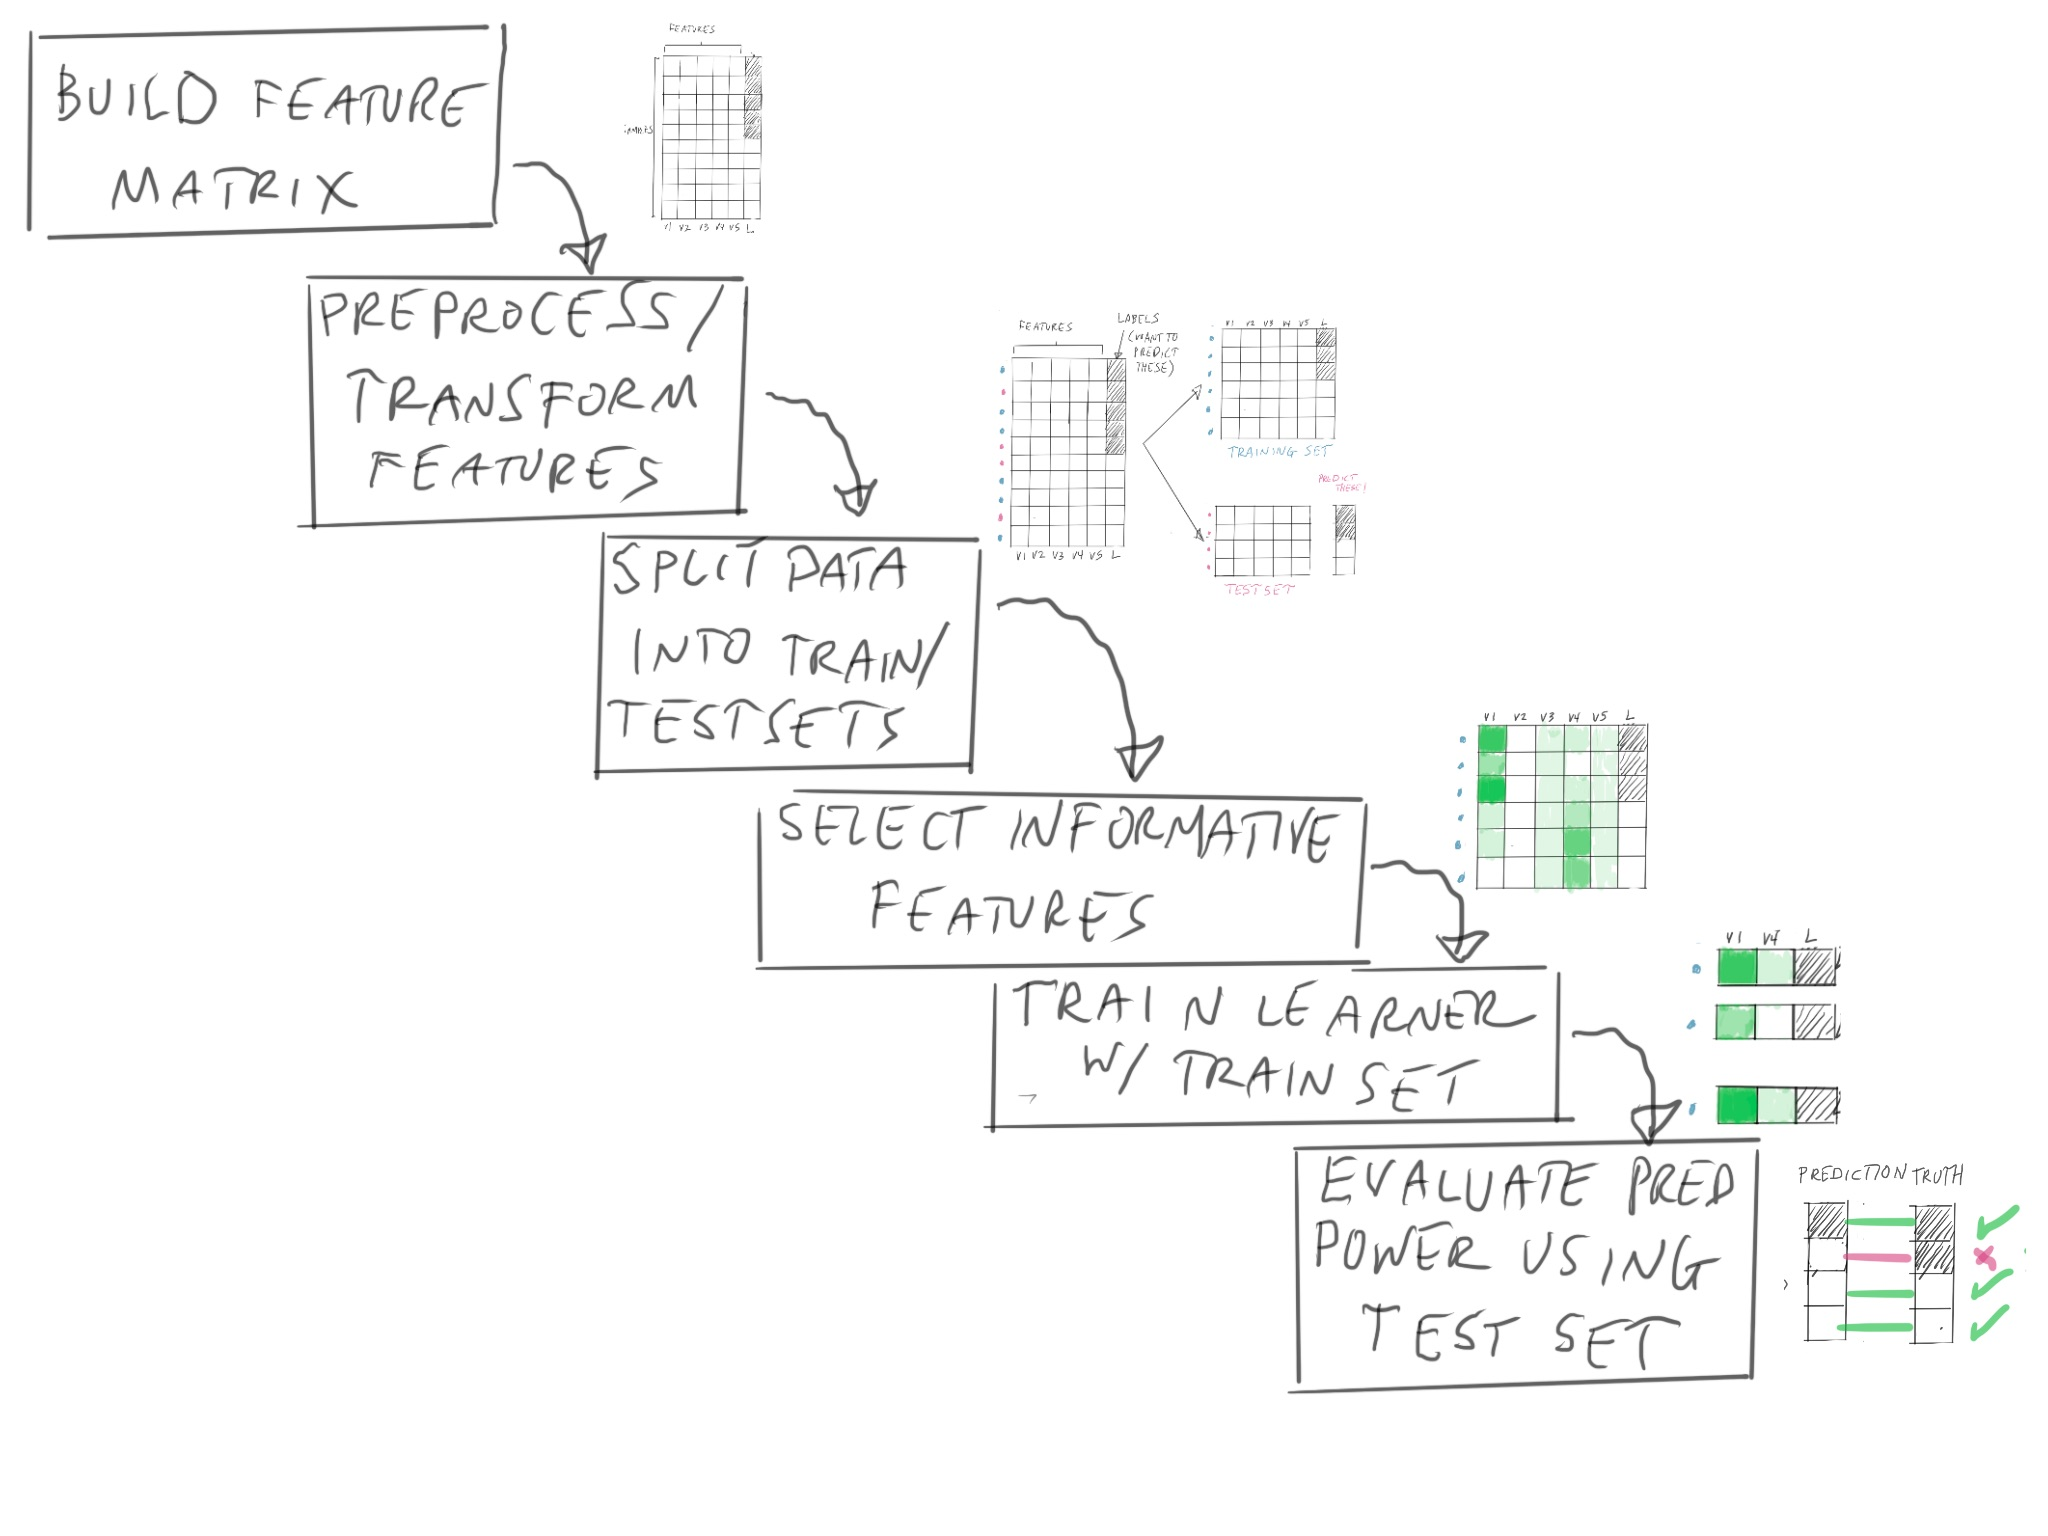
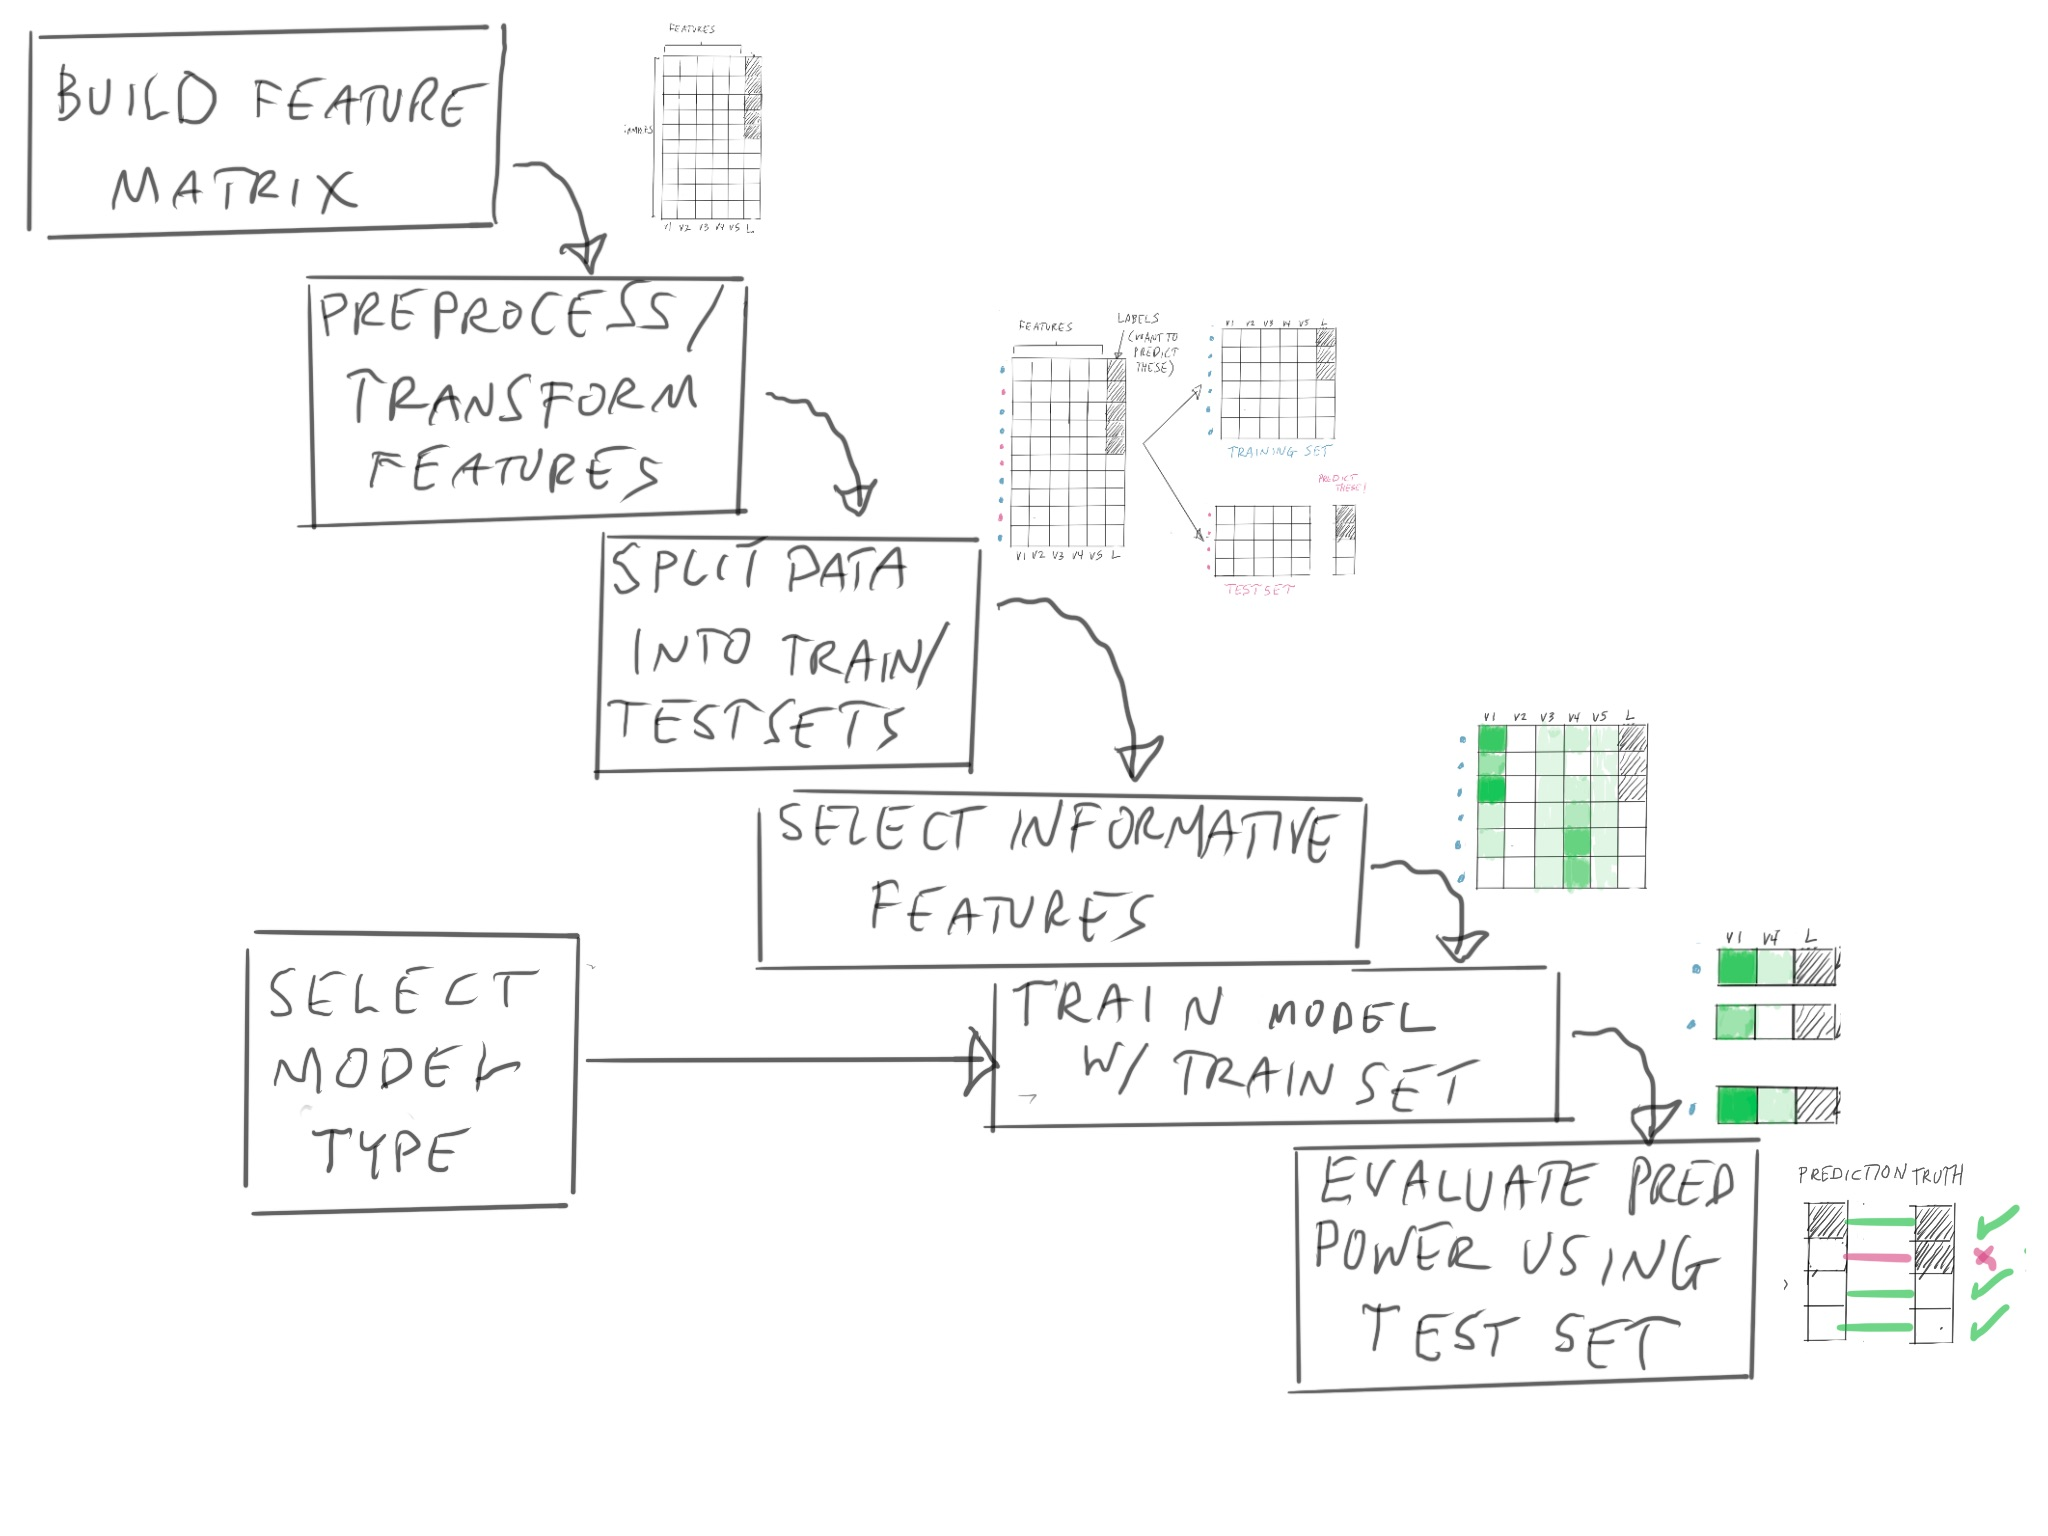
update

diff --git a/static/slides/10_machine_learning.html b/static/slides/10_machine_learning.html
@@ -25,10 +25,9 @@ class: center, middle, inverse, title-slide
 
 # Learning Objectives
 
-- Learn the different types of machine learning
-- Learn the basic phases of machine learning
-- Learn basic transformations on features
-- Learn how to evaluate the predictive power of a model/learner
+- **Learn** the different types of machine learning
+- **Learn** the basic phases of supervised machine learning and the `tidymodels` functions associated with them
+- **Learn how to evaluate** the predictive power of a model/learner
 
 ---
 
@@ -59,15 +58,23 @@ Ordered in terms of *interpretability*
 - Neural Nets
 
 ---
+# `tidymodels`
+
+General framework for machine learning, allows you access to many different machine learning packages, such as TensorFlow
+
+Learn one workflow, use many different algorithms!
+
+
+---
 &lt;img src="image/week10/workflow.JPG" width =800&gt;
 
 ---
 &lt;img src="image/week10/variable_transformation.JPG" width =800&gt;
 
 ---
-# Recipes
+# `recipes`
 
-The `recipes` package in `tidymodels` outlines approaches to transform data:
+The `recipes` package in `tidymodels` outlines approaches to transform data, using `step_` functions
 
 https://www.tidymodels.org/start/recipes/
 
@@ -106,12 +113,7 @@ recipe(~., data = all_features) %&gt;%
 
 The function `initial_split()` from `rsample` package in `tidymodels` handles splitting data into test/train sets.
 
-```
-all_features_split &lt;- initial_split(all_features, 
-                                prop = 3/4)
-all_features_train &lt;- training(all_features_split)
-all_features_test &lt;- testing(all_features_split)
-```
+
 
 ---
 
@@ -154,9 +156,7 @@ lr_mod &lt;-
 
 The `fit()` function in `tidymodels` (`parsnip`) lets you train a model based on the training data
 
-```
-lr_fit &lt;- fit(lr_mod, formula= dose ~ ., data=all_features_train)
-```
+
 ---
 &lt;img src="image/week10/formula.JPG" width =800&gt;
 
@@ -173,13 +173,7 @@ lr_fit &lt;- fit(lr_mod, formula= dose ~ ., data=all_features_train)
 - Balanced Accuracy
 - Area under the Reciever Operating Curve (ROC)
 
----
-# `collect_metrics()`
 
-```
-lr_fit %&gt;%
-  collect_metrics()
-```
 
 ---
 # Summary of workflow
